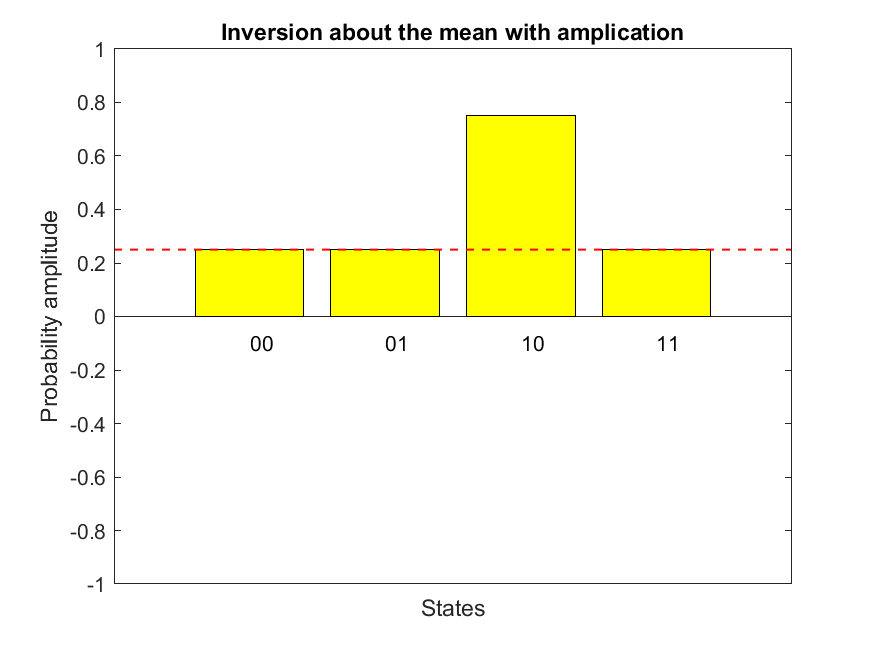
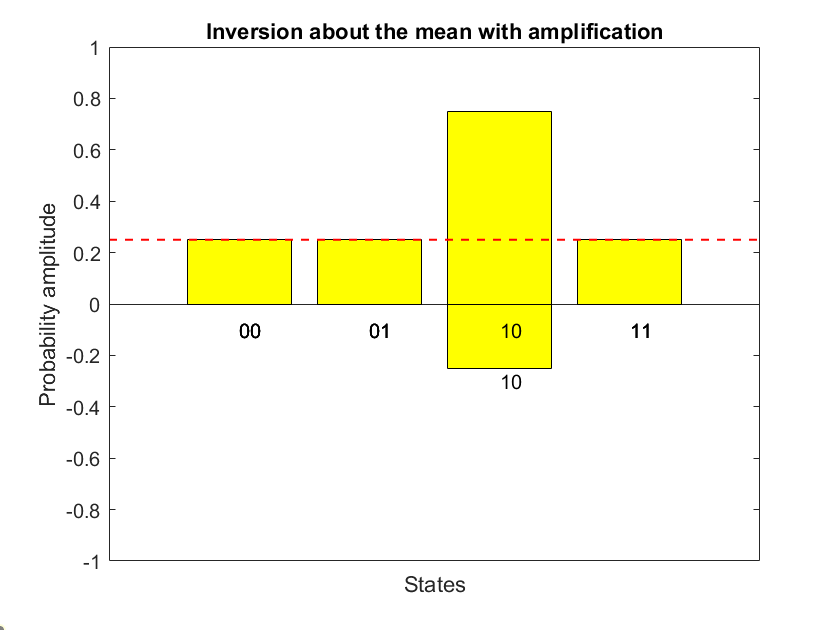
removed a typo in fig3 title

diff --git a/graphs.m b/graphs.m
@@ -1,12 +1,12 @@
 clear; close all
-p = ones(1,4) * .25;
+p = ones(1, 4) * .25;
 
 % subplot(2,2,1)
 bar(p, "yellow");
-set(gca,'XTick',[])
+set(gca, 'XTick', [])
 xlabel("States");
 ylabel("Probability amplitude")
-ylim([-1,1]); xlim([0,5])
+ylim([-1, 1]); xlim([0, 5])
 title("Two qubits in a state of superposition")
 text(1, -0.1, '00');
 text(2, -0.1, '01');
@@ -14,22 +14,21 @@ text(3, -0.1, '10');
 text(4, -0.1, '11');
 
 hold on
-p = ones(1,6) * .25;
-plot(0:5,p, Color="r", LineStyle="--", LineWidth=1)
-
+p = ones(1, 6) * .25;
+plot(0:5, p, Color = "r", LineStyle = "--", LineWidth = 1)
 
 %%
 
 clear;
-p = ones(1,4) * .25;
+p = ones(1, 4) * .25;
 p(3) = -1 * .25;
 
 % subplot(2,2,2)
 bar(p, "yellow")
-set(gca,'XTick',[])
+set(gca, 'XTick', [])
 xlabel("States");
 ylabel("Probability amplitude")
-ylim([-1,1]); xlim([0,5])
+ylim([-1, 1]); xlim([0, 5])
 title("Altering the solution state to a negative sign")
 text(1, -0.1, '00');
 text(2, -0.1, '01');
@@ -37,29 +36,28 @@ text(3, -0.3, '10');
 text(4, -0.1, '11');
 
 hold on
-p = ones(1,6) * .25;
-plot(0:5,p, Color="r", LineStyle="--", LineWidth=1)
-
+p = ones(1, 6) * .25;
+plot(0:5, p, Color = "r", LineStyle = "--", LineWidth = 1)
 
 %%
 
 clear;
-p = ones(1,4) * .25;
+p = ones(1, 4) * .25;
 p(3) = 3 * .25;
 
 % subplot(2,2,[3,4])
 bar(p, "yellow")
-set(gca,'XTick',[])
+set(gca, 'XTick', [])
 xlabel("States");
 ylabel("Probability amplitude")
-ylim([-1,1]); xlim([0,5])
-title("Inversion about the mean with amplication")
+ylim([-1, 1]); xlim([0, 5])
+title("Inversion about the mean with amplification")
 text(1, -0.1, '00');
 text(2, -0.1, '01');
 text(3, -0.1, '10');
 text(4, -0.1, '11');
 
 hold on
-p = ones(1,6) * .25;
-plot(0:5,p, Color="r", LineStyle="--", LineWidth=1)
-saveas(gcf,"fig3.png")
+p = ones(1, 6) * .25;
+plot(0:5, p, Color = "r", LineStyle = "--", LineWidth = 1)
+saveas(gcf, "fig3.png")
